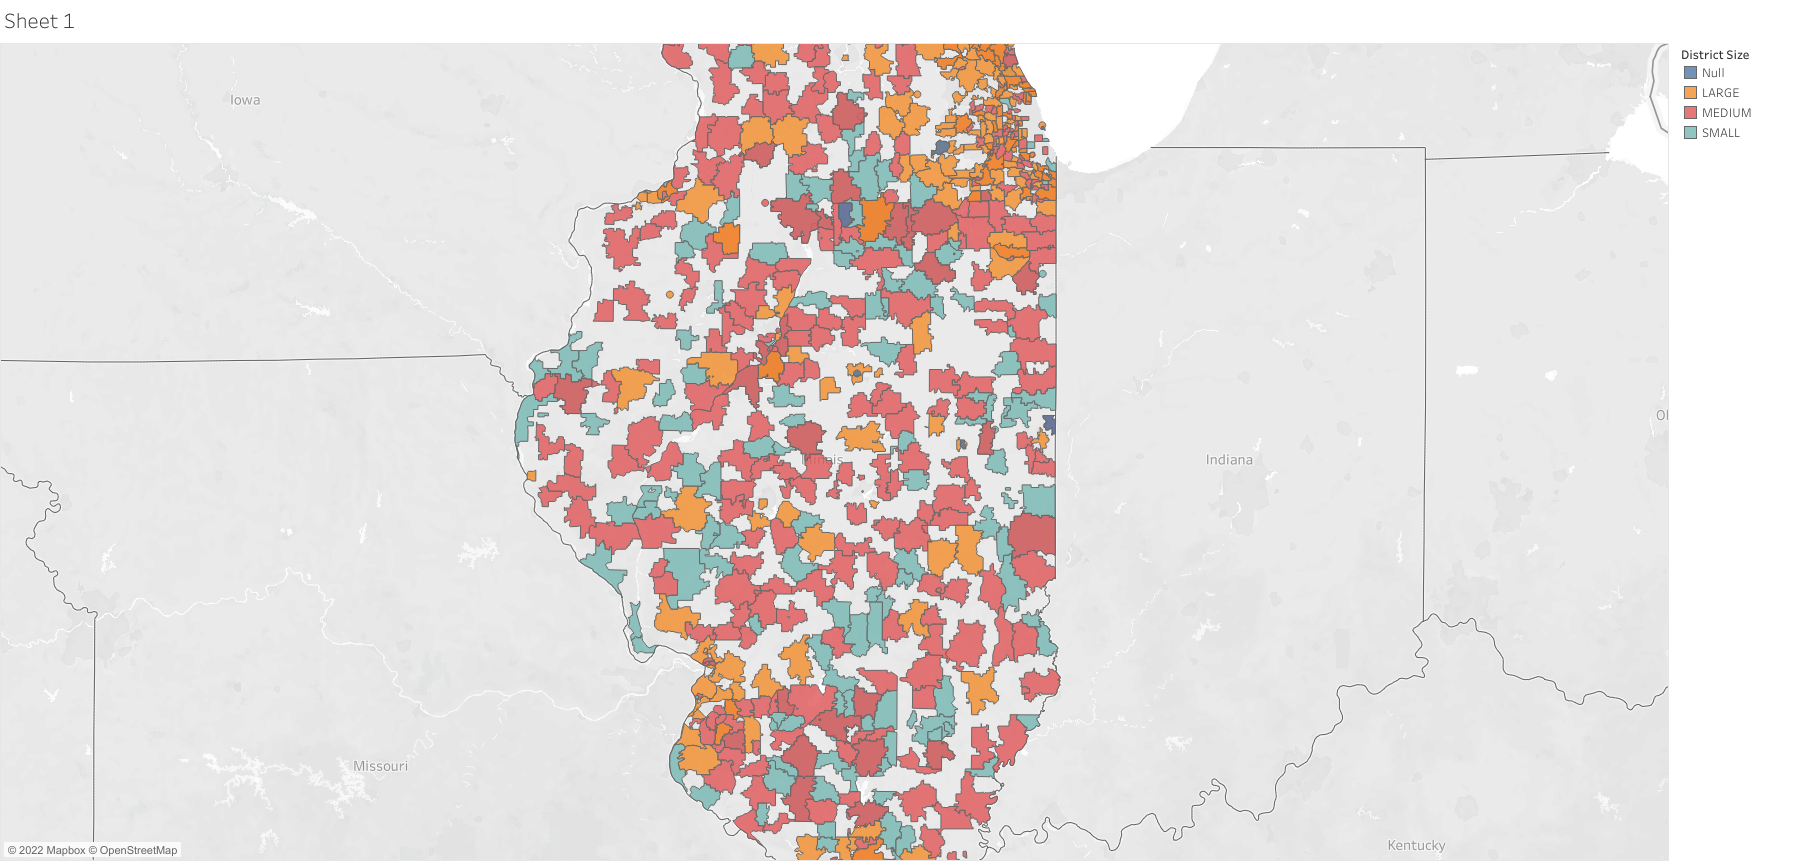
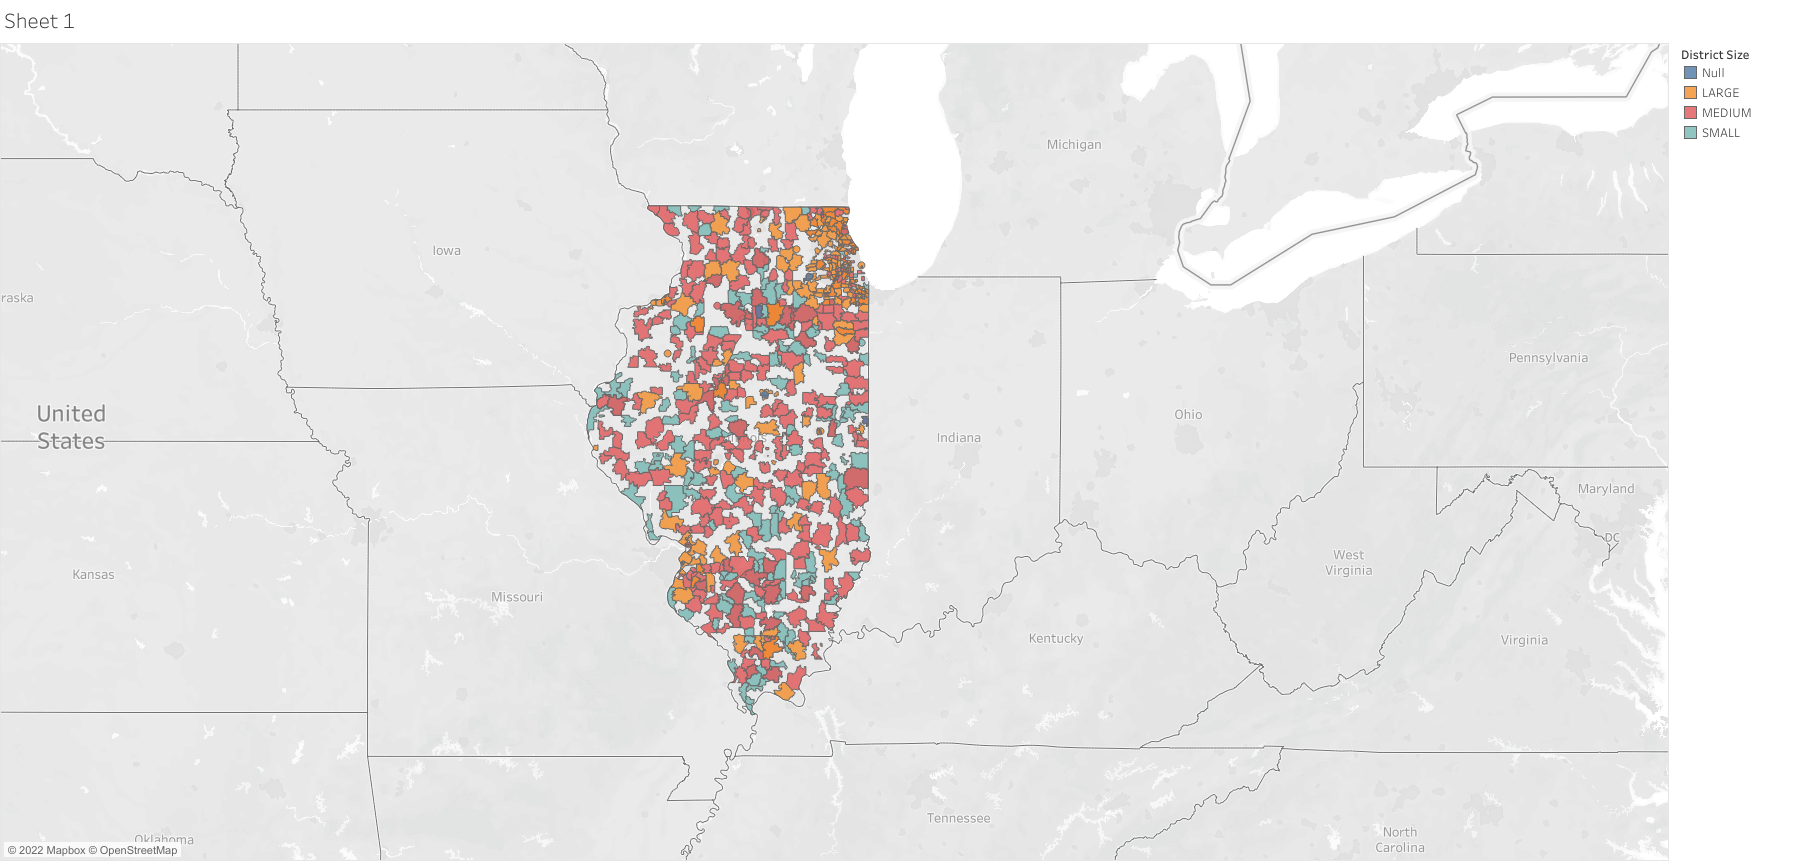
made chagnes to website, fixed image

diff --git a/templates/index copy.html b/templates/index copy.html
@@ -48,8 +48,8 @@ body,h1,h2,h3,h4,h5,h6 {font-family: "Lato", sans-serif}
   <div class="w3-content">
     <div class="w3-twothird">
       <h1>Project Overview</h1>
-      <h5 class="w3-padding-32">This project will use data provided by Illinois State Education Board to determine which key features to perform a regression. The regression will quantify a relationship between ELA and Math scores, with other key features from the data set. </h5>
-        <img src="/Images/Sheet_1.png" alt="HTML5 Icon" style="width:128px;height:128px;">
+      <h5 class="w3-padding-32">This project will use data provided by Illinois State Education Board to determine which key features to perform a regression. The regression will quantify a relationship between ELA and Math scores, with other key features from the data set. Illinois has 487 districts. They have small, medium and large.  </h5>
+        <img src="Images/Sheet_1.png" alt="HTML5 Icon" style="width:200%;height:200%;">
 
       <p class="w3-text-grey">Text Here</p>
     </div>
